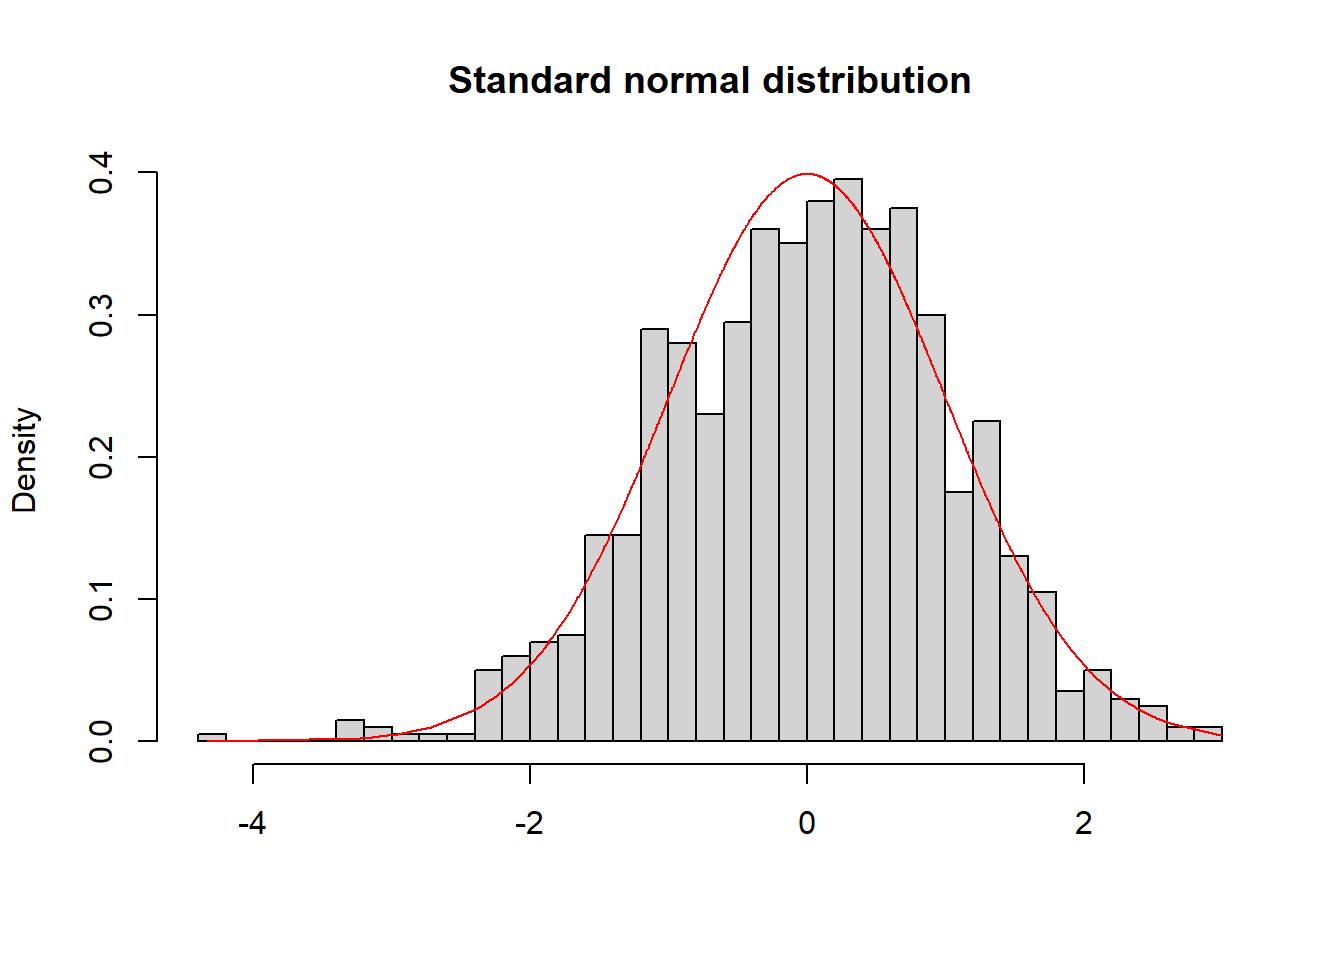
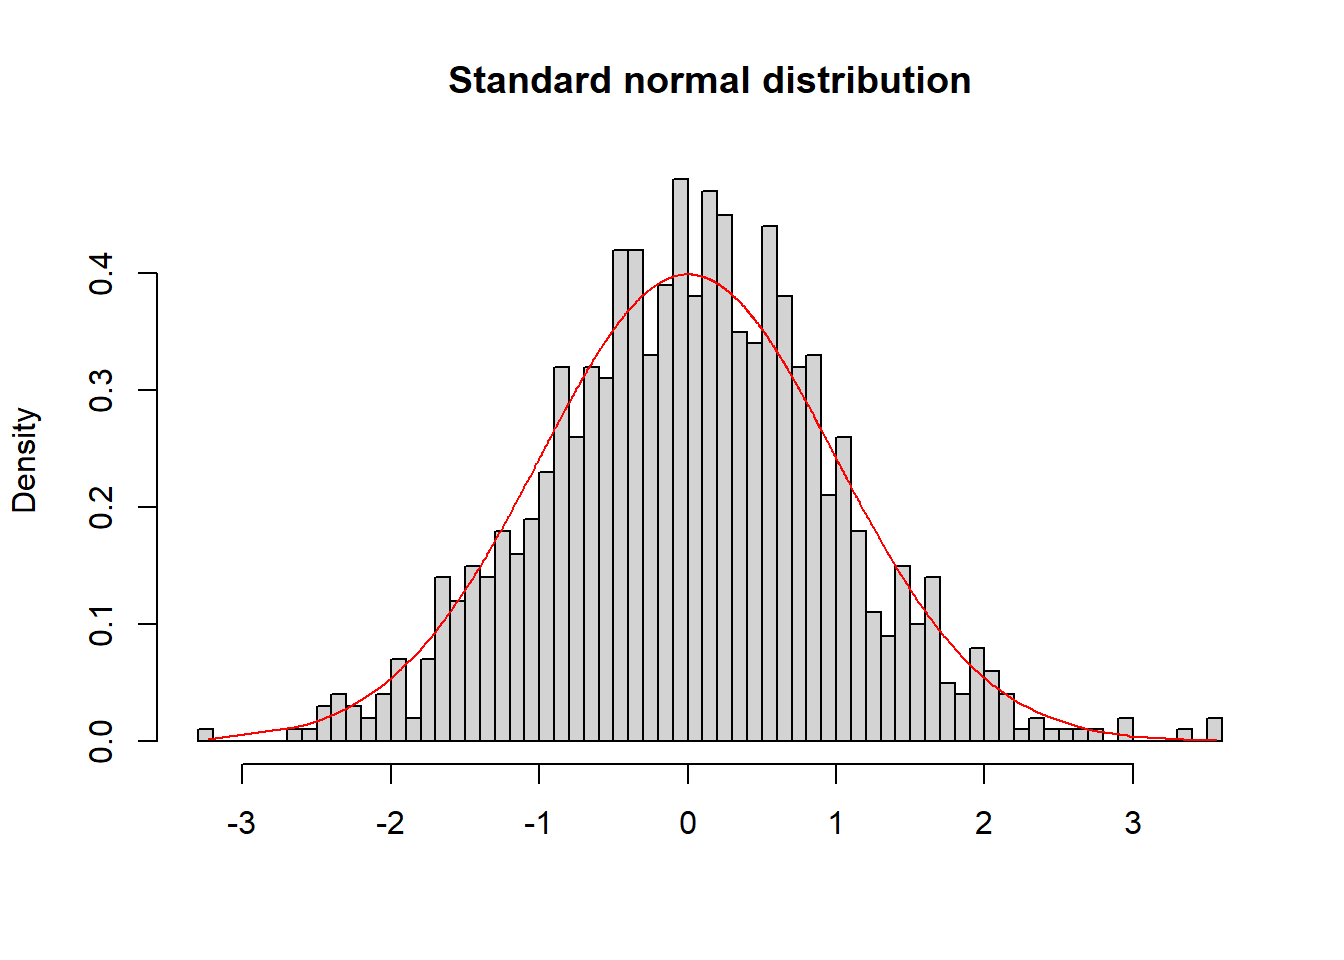
EX 6

diff --git a/_site/Exercise07.html b/_site/Exercise07.html
@@ -425,7 +425,7 @@ $(document).ready(function() {
 
 <div id="exercise-7.1" class="section level1">
 <h1>Exercise 7.1</h1>
-<p>Assume you want to compare the concentration of a certain metabolite in blood samples of patients with a certain disease with samples from healthy control people. From a pilot sample, it is known that the standard deviation in the complete sample is 2 (SD = 2). A difference of <span class="math inline">\(\delta = 3\)</span> mml/l between the group means is considered as clinical relevant. If there is truly a difference of <span class="math inline">\(\delta = 3\)</span> mml/l between the group means, it is desired to detect this differences with a probability of 80 %. i.e., you allow for a false negative probability of 100% - 80% = 20%.</p>
+<p>Assume you want to compare the concentration of a certain metabolite in blood samples of patients with a certain disease with samples from healthy control people. From a pilot sample, it is known that the standard deviation in the complete sample is 2 (SD = 2). A difference of <span class="math inline">\(\delta = 3\)</span> mml/l between the group means is considered as clinical relevant. If there is truly a difference of <span class="math inline">\(\delta = 3\)</span> mml/l between the group means, it is desired to detect this differences with a probability of 80 %, i.e. you allow for a false negative probability of 100% - 80% = 20%.</p>
 <p>How many samples per group are necessary to fulfill the above demand for the power of 80% (<span class="math inline">\(\texttt{power.t.test}\)</span>)?</p>
 <p>Assume in the above setting that a smaller difference, i.e. of <span class="math inline">\(\delta = 0.1\)</span> is considered as clinical relevant:</p>
 <p>Change the value for the desired power and discuss with your neighbor the effect on the sample size. Turn also on the value of the standard deviation from the pilot sample.</p>

diff --git a/_site/Exercise03.html b/_site/Exercise03.html
@@ -476,9 +476,9 @@ for(j in 1:10){
 M_mean&lt;-mean(M_col_mean)
 M_col_mean
 M_mean</code></pre>
-<pre><code>##  [1]  0.2785640 -0.6207207 -0.3587130  0.3273617 -0.2784221  0.4955207
-##  [7]  0.5576932 -0.6164465  0.1344372 -0.6490567
-## [1] -0.07297823</code></pre>
+<pre><code>##  [1] -0.51732064  0.70129367  0.21786575  0.43547378 -0.92012883  0.01115779
+##  [7]  0.72876710 -0.90071640 -0.01982499  0.24292488
+## [1] -0.002050789</code></pre>
 </div>
 <p>Plot the density function of the standard normal distribution. Using the function <strong><tt>points()</tt></strong> draw the sample means and the mean of means into the plot.</p>
 <div class="fold s o">

diff --git a/_site/Exercise06.html b/_site/Exercise06.html
@@ -534,7 +534,7 @@ Percentage of variability explained by the model.
 F-statistic
 </summary>
 <p>
-The F-Statistic checks if at least one of your coefficients are nonzero.
+The F-Statistic checks if at least one of your coefficients is nonzero.
 </p>
 </details>
 <p>The output of the <strong><tt>lm</tt></strong> is a list which contains the estimates of the linear regression model. Use the latter to draw the regression line into the scatter plot (<strong><tt>abline</tt></strong>).</p>
